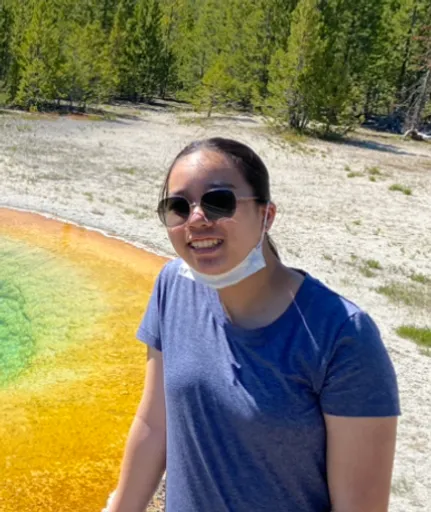
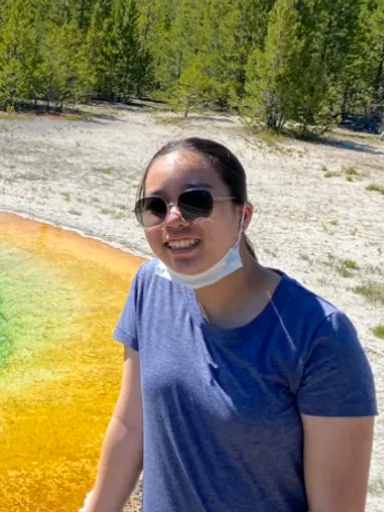
rearranged stuff

diff --git a/robo about us.html b/robo about us.html
@@ -70,7 +70,7 @@
                 This year, I'll be the hardware lead and engineering notebook lead. Both those roles are really exciting to me because I can practice leadership skills and I will be able to work with all parts of the physical robot.
             </div>
             <div class="member-photo">
-                <img src="shimon team pic.png" alt="Shimon" style="max-height: 400px;">
+                <img src="/individualPics/shimon team pic.png" alt="Shimon" style="max-height: 400px;">
             </div>
         </div>  
         <br>
@@ -95,7 +95,7 @@
                 Design brainstorming and HARDWARE. It's fun.
             </div>
             <div class="member-photo">
-                <img src="daren team pic.png" alt="Daren" style="max-width: 300px;">
+                <img src="/individualPics/daren team pic.png" alt="Daren" style="max-width: 300px;">
             </div>
         </div>
 
@@ -115,10 +115,10 @@
                 <br>
                 <!-- <strong><u>Role:</u></strong> -->
                 <br>
-                I love coding, especially programming robots, and watching them succeed. Software in FTC is my passion. Learning from experienced team members about the robot's intricacies is both enjoyable and educational. I've made great friends on the team and can't wait to collaborate with them throughout the year.
-                </div>
+                I love coding, especially programming robots, and watching them succeed. Learning from experienced team members about the robot's intricacies is both enjoyable and educational. I've made great friends on the team and can't wait to collaborate with them.
+            </div>
             <div class="member-photo">
-                <img src="SelfiePic.png" alt="Ryan" style="max-width: 300px;">
+                <img src="/individualPics/ryan team pic.png" alt="Ryan" style="max-width: 300px;">
             </div>
         </div>
 
@@ -142,7 +142,7 @@
                 My main role on the team is outreach, but I also help out with hardware. For outreach, I always look forward to meeting new people. For hardware, I enjoy the process of trial and error.
             </div>
             <div class="member-photo">
-                <img src="abigail team pic.png" alt="Abigail" style="max-width: 300px;">
+                <img src="/individualPics/abigail team pic.png" alt="Abigail" style="max-width: 300px;">
             </div>
         </div>
 
@@ -164,7 +164,7 @@
                 I am part of the 4 members that work on the software part of this team. The things I like about my role are how I get to learn about the code that actually makes the robot do tasks, and being able to work with the other team members.
             </div>
             <div class="member-photo">
-                <img src="sophia team pic.png" alt="Sophia" style="max-width: 300px;">
+                <img src="/individualPics/sophia team pic.png" alt="Sophia" style="max-width: 300px;">
             </div>
         </div>
 
